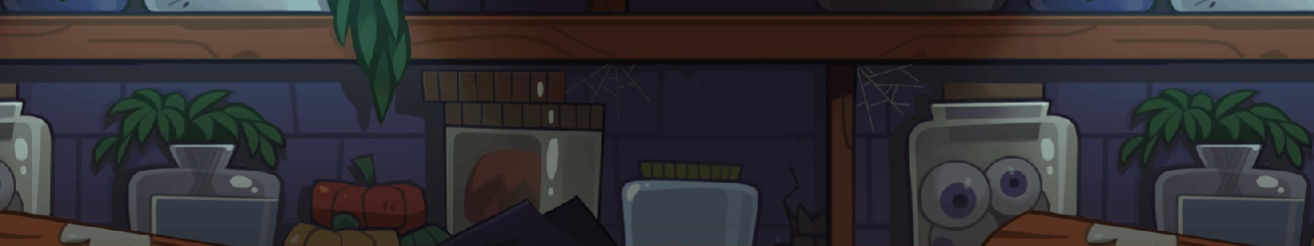
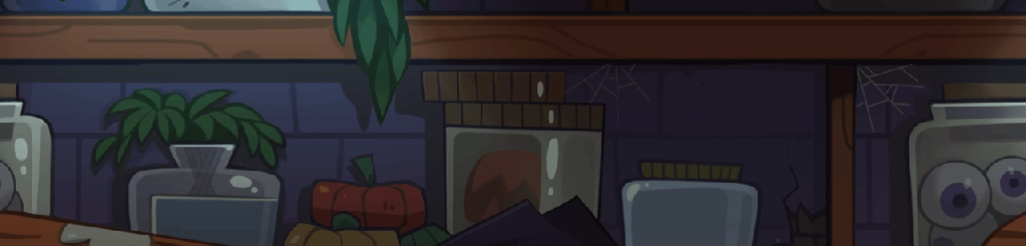
robby
로비의 아래와 위를 다른 이미지를 사용하여 다른 속도로 움직이게 만들었다

diff --git a/scene_robby.py b/scene_robby.py
@@ -1,25 +1,61 @@
 from pico2d import *
 import game_framework
+import fps
 
-image = None
-start_time = 0.0
+top_image = None
+top_image_x = 500
+top_image_x_2 = 500 + 1030
+bottom_image = None
+bottom_image_x = 500
+bottom_image_x_2 = 500 + 1314
 
 def enter():
+    global top_image, bottom_image, top_image_2
+    if top_image == None:
+        top_image = load_image('resource/robby_top1.png')
+
+    if bottom_image == None:
+        bottom_image = load_image('resource/robby_bottom.png')
     pass
 
 def exit():
-   pass
+    global top_image, bottom_image
+    del (top_image)
+    del (bottom_image)
+    pass
 
 
 def update():
+    global top_image_x, top_image_x_2, bottom_image_x, bottom_image_x_2
+    top_image_x -= 0.5 * fps.FPS().elapsed
+    if top_image_x <= -515:
+        top_image_x = 1000 + 515
+    top_image_x_2 -= 0.5 * fps.FPS().elapsed
+    if top_image_x_2 <= -515:
+        top_image_x_2 = 1000 + 515
+
+    bottom_image_x -= 1.0 * fps.FPS().elapsed
+    if bottom_image_x < -657:
+        bottom_image_x = 1000 + 1314/2
+    bottom_image_x_2 -= 1.0 * fps.FPS().elapsed
+    if bottom_image_x_2 < -657:
+        bottom_image_x_2 = 1000 + 1314 / 2
     pass
 
 
 def draw():
+    global top_image, bottom_image, top_image_2, bottom_image_x_2
+    clear_canvas()
+    top_image.clip_draw(0, 0, 1030, 246, top_image_x, 250 + 123)
+    top_image.clip_draw(0, 0, 1030, 246, top_image_x_2, 250 + 123)
+    bottom_image.clip_draw(0, 0, 1314, 394, bottom_image_x, 250 - 197)
+    bottom_image.clip_draw(0, 0, 1314, 394, bottom_image_x_2, 250 - 197)
+    update_canvas()
     pass
 
 
 def handle_events():
+    events = get_events()
     pass
 
 

diff --git a/scene_start.py b/scene_start.py
@@ -1,6 +1,6 @@
 from pico2d import *
 import game_framework
-import scene_main
+import scene_robby
 
 image = None
 start_time = 0.0
@@ -21,7 +21,7 @@ def update():
     global start_time
     if(start_time > 2.0):
         start_time = 0
-        game_framework.change_state(scene_main)
+        game_framework.change_state(scene_robby)
     start_time += 0.01
     pass
 
